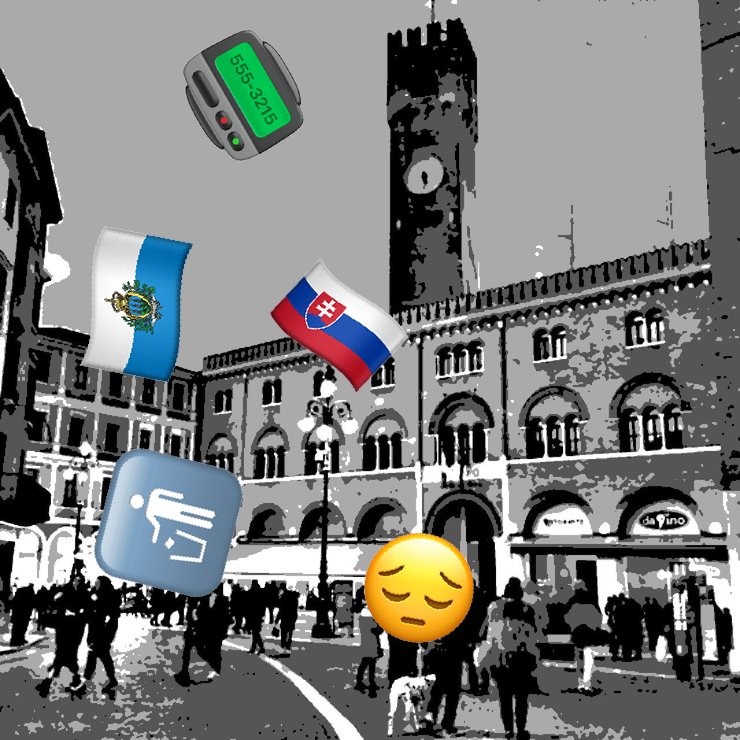
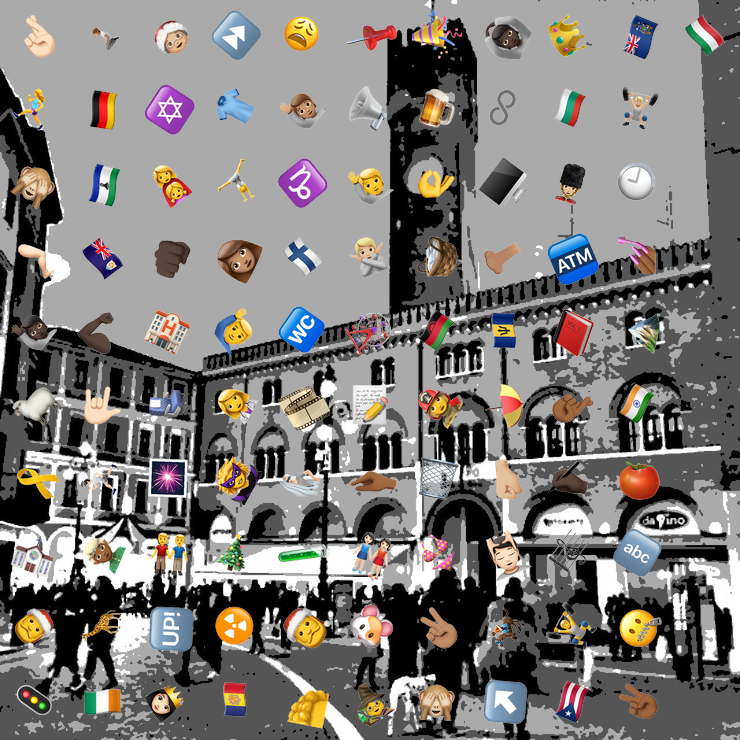
Added another layout mode (grid)

diff --git a/main.py b/main.py
@@ -1,3 +1,4 @@
+import math
 import os
 from random import randint, choice
 from pathlib import Path
@@ -10,6 +11,51 @@ emojis = [file_name for file_name in os.listdir("emojis")]
 background_img = Image.open('bg.jpg', 'r').convert('RGBA').resize((740, 740), Image.ANTIALIAS)
 
 
+class Modes:
+    RANDOM_POSITION = 1
+    GRID = 2
+
+
+MODE = 2
+
+
+def gen_offsets_grid(img_width: int, img_height: int, number_of_emojis: int, cell_padding: int = 10):
+    grid_x, grid_y = 1, 1
+    while True:
+        if grid_x * grid_y >= number_of_emojis:
+            break
+        else:
+            if grid_x <= grid_y:
+                grid_x += 1
+            else:
+                grid_y += 1
+
+    print(f"grid side for {number_of_emojis} emojis: {grid_x}x{grid_y}")
+
+    cell_w = math.floor(img_width / grid_x)
+    cell_h = math.floor(img_height / grid_y)
+    print(f"cells side (width: {img_width}): {grid_x} x {cell_w} = {grid_x*cell_w}")
+    print(f"cells side (height: {img_height}): {grid_y} x {cell_h} = {grid_y*cell_h}")
+
+    emoji_w = cell_w - (cell_padding * 2)
+    emoji_h = cell_h - (cell_padding * 2)
+    print(f"emojis size: {emoji_w} x {emoji_h}")
+
+    coordinates = []
+    for x in range(grid_x):
+        for y in range(grid_y):
+            offset_x = (cell_w * x) + cell_padding
+            offset_y = (cell_h * y) + cell_padding
+
+            print(f"cell {x}x{y}: {offset_x:3}, {offset_y:3}")
+
+            coordinates.append((offset_x, offset_y))
+
+        print("\n", end="")
+
+    return coordinates, (emoji_w, emoji_h)
+
+
 def gen_offset(max_width: int, max_height: int, existing_offsets: list):
     offset = ()
 
@@ -20,7 +66,7 @@ def gen_offset(max_width: int, max_height: int, existing_offsets: list):
         print(f"\nCANDIDATE: {offset_w}, {offset_h}")
 
         if not existing_offsets:
-            return (offset_w, offset_h)
+            return offset_w, offset_h
 
         valid = True
         for existing_offset_w, existing_offset_h in existing_offsets:
@@ -35,8 +81,7 @@ def gen_offset(max_width: int, max_height: int, existing_offsets: list):
             print("", f"testing bounds: {w_bound_lower}-{w_bound_higher}, {h_bound_lower}-{h_bound_higher}")
 
             if (w_bound_lower < offset_w < w_bound_higher) and (h_bound_lower < offset_h < h_bound_higher):
-                print("",
-                      f"DISCARDED offset: ({offset_w}, {offset_h}): too close to ({existing_offset_w}, {existing_offset_h})")
+                print("", f"DISCARDED offset: ({offset_w}, {offset_h}): too close to ({existing_offset_w}, {existing_offset_h})")
                 valid = False
                 break
 
@@ -45,6 +90,21 @@ def gen_offset(max_width: int, max_height: int, existing_offsets: list):
             print("", f"offset OK: ({offset_w}, {offset_h})")
 
             return offset
+
+
+def gen_offsets_random(img_width: int, img_height: int, number_of_emojis: int):
+    new_size = randint(150, 200)
+
+    coordinates = []
+    for i in range(number_of_emojis):
+        # calculate pasting offset
+        max_width = img_width - new_size
+        max_height = img_height - new_size
+
+        offset = gen_offset(max_width, max_height, coordinates)
+        coordinates.append(offset)
+
+    return coordinates, (new_size, new_size)
 
 
 def main():
@@ -56,31 +116,44 @@ def main():
     print(png_img.size)
 
     bg_w, bg_h = background_img.size
-    existing_offsets = []
-    candidate_offsets_count = 0
-    for i in range(5):
+
+    number_of_emojis = 101
+
+    if MODE == Modes.RANDOM_POSITION:
+        coordinates, (emoji_width, emoji_height) = gen_offsets_random(
+            bg_w, bg_h,
+            number_of_emojis=number_of_emojis,
+        )
+    elif MODE == Modes.GRID:
+        coordinates, (emoji_width, emoji_height) = gen_offsets_grid(
+            bg_w, bg_h,
+            number_of_emojis=number_of_emojis,
+            cell_padding=10
+        )
+    else:
+        raise ValueError(f"invalid mode: {MODE}")
+
+    for i, (x, y) in enumerate(coordinates):
+        if i + 1 > number_of_emojis:
+            break
+
         png_image_path = Path("emojis/") / choice(emojis)
         png_img = Image.open(png_image_path).convert('RGBA')
 
         # rotate emoji
+        # rotation might cause the emojis to slightly overlap in the grid, but shouldn't be an issue
         rotations = (randint(20, 90), randint(290, 360))
         png_img = png_img.rotate(choice(rotations))
 
         # resize emoji
-        new_size = randint(150, 200)
+        new_size = randint(emoji_width, emoji_height)
         png_img = png_img.resize((new_size, new_size), Image.ANTIALIAS)
 
-        # calculate pasting offset
-        max_width = bg_w - new_size
-        max_height = bg_h - new_size
-
-        offset = gen_offset(max_width, max_height, existing_offsets)
-        existing_offsets.append(offset)
-
-        background_img.paste(png_img, offset, png_img)  # https://stackoverflow.com/a/5324782
+        background_img.paste(png_img, (x, y), png_img)  # https://stackoverflow.com/a/5324782
 
     background_img.save('result.png')
 
 
 if __name__ == "__main__":
     main()
+    # gen_offsets_grid(812, 812, 6)
